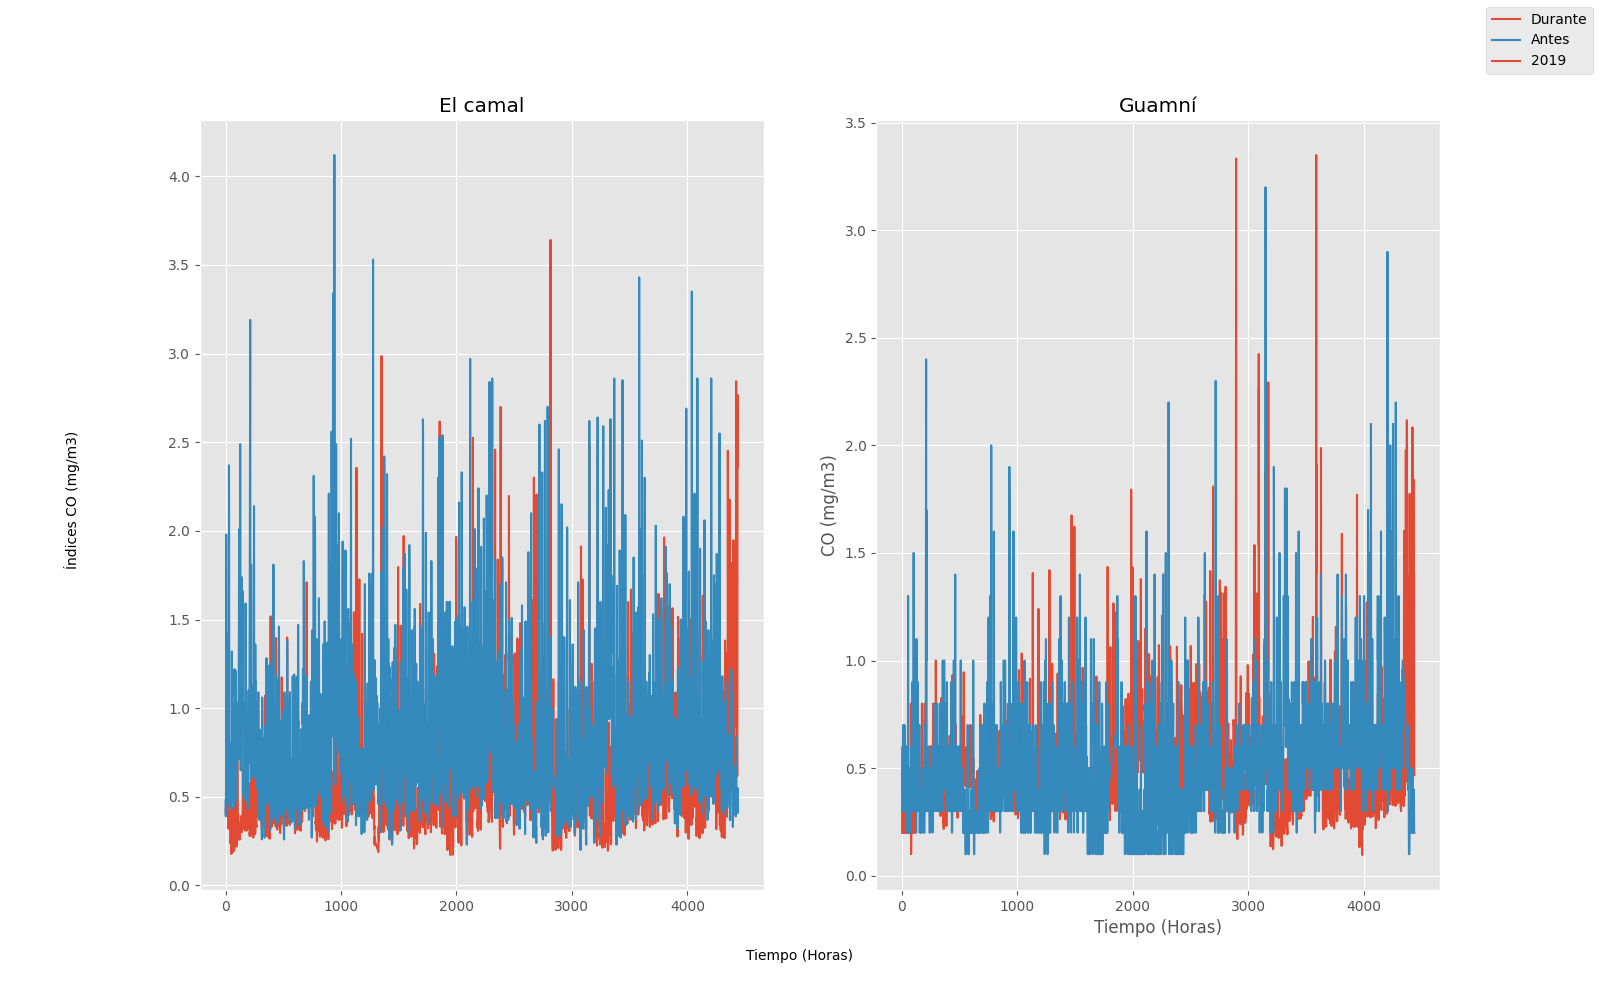
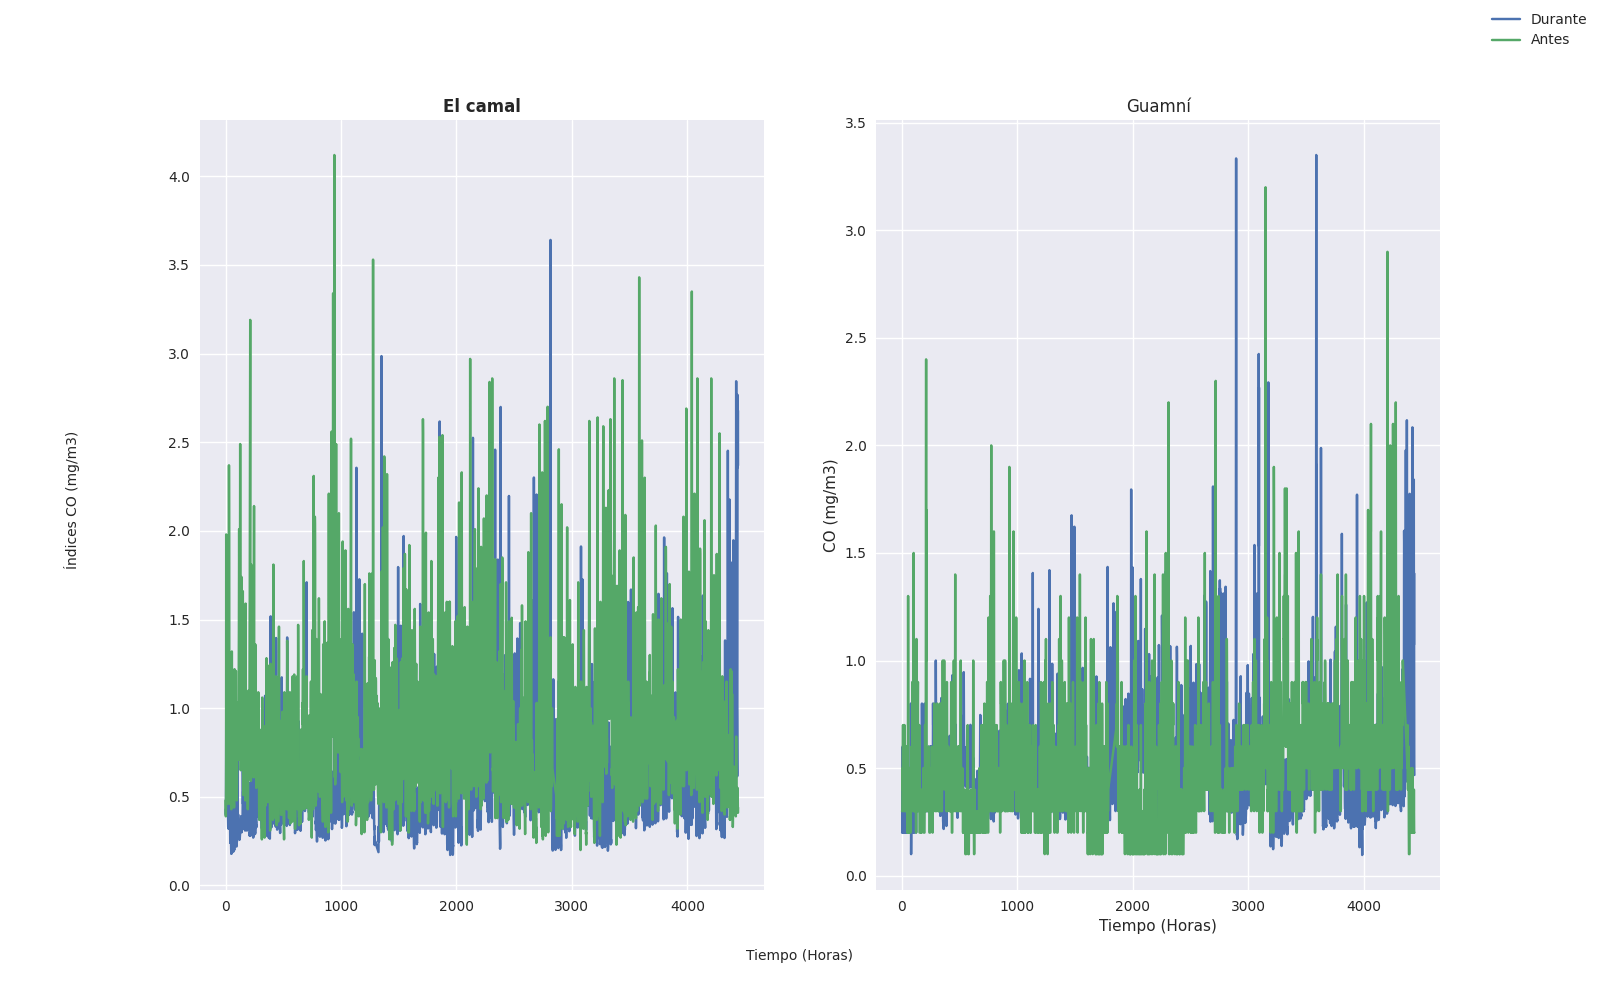
commit_18/5

diff --git a/CO/co_analisis.py b/CO/co_analisis.py
@@ -11,7 +11,8 @@ import scipy.stats as stats
 from sklearn.preprocessing import PowerTransformer
 import statistics
 
-plt.style.use('ggplot')
+plt.style.use('seaborn')
+
 
 belisario_co = []
 carapungo_co = []
@@ -22,6 +23,27 @@ guamani_co = []
 chillos_co = []
 tumbaco_co = []
 
+def medias_antes_durante(belisario_co, carapungo_co, centro_co, cotocollao_co, elcamal_co, guamani_co, chillos_co, tumbaco_co, belisario_co_a, carapungo_co_a, centro_co_a, cotocollao_co_a, elcamal_co_a, guamani_co_a, chillos_co_a, tumbaco_co_a):
+    bel_mean = statistics.mean(belisario_co)
+    car_mean = statistics.mean(carapungo_co)
+    cen_mean = statistics.mean(centro_co)
+    coto_mean = statistics.mean(cotocollao_co)
+    cama_mean = statistics.mean(elcamal_co)
+    gua_mean = statistics.mean(guamani_co)
+    chillos_mean = statistics.mean(chillos_co)
+    tum_mean = statistics.mean(tumbaco_co)
+    
+    bel_mean_a = statistics.mean(belisario_co_a)
+    car_mean_a = statistics.mean(carapungo_co_a)
+    cen_mean_a = statistics.mean(centro_co_a)
+    coto_mean_a = statistics.mean(cotocollao_co_a)
+    cama_mean_a = statistics.mean(elcamal_co_a)
+    gua_mean_a = statistics.mean(guamani_co_a)
+    chillos_mean_a = statistics.mean(chillos_co_a)
+    tum_mean_a = statistics.mean(tumbaco_co_a)
+    
+    return print(f"{bel_mean, car_mean, cen_mean, coto_mean, cama_mean, gua_mean, chillos_mean, tum_mean} Antes: {bel_mean_a, car_mean_a, cen_mean_a, coto_mean_a, cama_mean_a, gua_mean_a, chillos_mean_a, tum_mean_a}")
+    
 belisario_co_a = []
 carapungo_co_a = []
 centro_co_a = []
@@ -42,7 +64,7 @@ tumbaco_co_19 = []
 
 
 #Read File == Resultados 1 mes durante la pandemia 2020
-with open("/home/edward/DataScience_Projects/Air Pollution/Historical_data_analysis/CO/CO DATA-N.csv", "r") as csv_file:
+with open("/home/edward/DataScience_Projects/Air Pollution/CO/CO DATA-N.csv", "r") as csv_file:
     f = csv.reader(csv_file, delimiter=";")
     for line in islice(f, 142131, 146570):
         belisario_co.append(float(line[1]))
@@ -55,7 +77,7 @@ with open("/home/edward/DataScience_Projects/Air Pollution/Historical_data_analy
         tumbaco_co.append(float(line[8]))
 
 #Read File == Resultados 1 mes antes la pandemia 2020
-with open("/home/edward/DataScience_Projects/Air Pollution/Historical_data_analysis/CO/CO DATA-N.csv", "r") as csv_file_antes:
+with open("/home/edward/DataScience_Projects/Air Pollution/CO/CO DATA-N.csv", "r") as csv_file_antes:
     z = csv.reader(csv_file_antes, delimiter=";")
     for line in islice(z, 137691, 142130):
         belisario_co_a.append(float(line[1]))
@@ -68,7 +90,7 @@ with open("/home/edward/DataScience_Projects/Air Pollution/Historical_data_analy
         tumbaco_co_a.append(float(line[8]))
 
 #Read File == Resultados 1 mes 2019
-with open("/home/edward/DataScience_Projects/Air Pollution/Historical_data_analysis/CO/CO DATA-N.csv", "r") as csv_file_2019:
+with open("/home/edward/DataScience_Projects/Air Pollution/CO/CO DATA-N.csv", "r") as csv_file_2019:
     c = csv.reader(csv_file_2019, delimiter=";")
     for line in islice(c, 133347, 137786):
         belisario_co_19.append(float(line[1]))
@@ -202,13 +224,11 @@ ax4.set_title("Cotocollao")
 # for ax in fig.get_axes():
 #     ax.label_outer()
 
-
-
 fig.text(0.5, 0.04, 'Tiempo (Horas)', ha='center')
 fig.text(0.04, 0.5, 'Índices CO (mg/m3)', va='center', rotation='vertical')
 
-fig.legend(["Durante", "Antes", "2019"])
-plt.savefig("/home/edward/DataScience_Projects/Air Pollution/Historical_data_analysis/CO/Gráficos CO/1.png")
+fig.legend(["Durante", "Antes"])
+plt.savefig("/home/edward/DataScience_Projects/Air Pollution/CO/Gráficos CO/1.png")
 
 plt.show()
 
@@ -268,11 +288,15 @@ ax2.set_title("Guamní")
 # for ax in fig2.get_axes():
 #     ax.label_outer()
 
+# tweak the title
+ttl = ax1.title
+ttl.set_weight('bold')
+
 fig2.text(0.5, 0.04, 'Tiempo (Horas)', ha='center')
 fig2.text(0.04, 0.5, 'Índices CO (mg/m3)', va='center', rotation='vertical')
 
-fig2.legend(["Durante", "Antes", "2019"])
-plt.savefig("/home/edward/DataScience_Projects/Air Pollution/Historical_data_analysis/CO/Gráficos CO/2.png")
+fig2.legend(["Durante", "Antes"])
+plt.savefig("/home/edward/DataScience_Projects/Air Pollution/CO/Gráficos CO/2.png")
 plt.show()
 
 fig3, ((ax3, ax4)) = plt.subplots(1,2, sharex=True, figsize=(16,10))
@@ -330,9 +354,9 @@ ax4.set_title("Tumbaco")
 fig3.text(0.5, 0.04, 'Tiempo (Horas)', ha='center')
 fig3.text(0.04, 0.5, 'Índices CO (mg/m3)', va='center', rotation='vertical')
 
-fig3.legend(["Durante", "Antes", "2019"])
+fig3.legend(["Durante", "Antes"])
 
-plt.savefig("/home/edward/DataScience_Projects/Air Pollution/Historical_data_analysis/CO/Gráficos CO/3.png")
+plt.savefig("/home/edward/DataScience_Projects/Air Pollution/CO/Gráficos CO/3.png")
 plt.show()
 
 
@@ -383,4 +407,7 @@ print(Wilcoxon_result_test)
 box_fig = plt.figure(figsize =(10, 7))
 # Creating plot
 plt.boxplot(box_data)
-plt.savefig('/home/edward/DataScience_Projects/Air Pollution/Historical_data_analysis/CO/Gráficos CO/box_plot_belisario.png')
+plt.savefig('/home/edward/DataScience_Projects/Air Pollution/CO/Gráficos CO/box_plot_belisario.png')
+
+
+medias_antes_durante(belisario_co, carapungo_co, centro_co, cotocollao_co, elcamal_co, guamani_co, chillos_co, tumbaco_co, belisario_co_a, carapungo_co_a, centro_co_a, cotocollao_co_a, elcamal_co_a, guamani_co_a, chillos_co_a, tumbaco_co_a)

diff --git a/O3/o3_analisis.py b/O3/o3_analisis.py
@@ -31,6 +31,27 @@ guamani_o3_a = []
 chillos_o3_a = []
 tumbaco_o3_a = []
 
+def medias_antes_durante(belisario_co, carapungo_co, centro_co, cotocollao_co, elcamal_co, guamani_co, chillos_co, tumbaco_co, belisario_co_a, carapungo_co_a, centro_co_a, cotocollao_co_a, elcamal_co_a, guamani_co_a, chillos_co_a, tumbaco_co_a):
+    bel_mean = statistics.mean(belisario_co)
+    car_mean = statistics.mean(carapungo_co)
+    cen_mean = statistics.mean(centro_co)
+    coto_mean = statistics.mean(cotocollao_co)
+    cama_mean = statistics.mean(elcamal_co)
+    gua_mean = statistics.mean(guamani_co)
+    chillos_mean = statistics.mean(chillos_co)
+    tum_mean = statistics.mean(tumbaco_co)
+    
+    bel_mean_a = statistics.mean(belisario_co_a)
+    car_mean_a = statistics.mean(carapungo_co_a)
+    cen_mean_a = statistics.mean(centro_co_a)
+    coto_mean_a = statistics.mean(cotocollao_co_a)
+    cama_mean_a = statistics.mean(elcamal_co_a)
+    gua_mean_a = statistics.mean(guamani_co_a)
+    chillos_mean_a = statistics.mean(chillos_co_a)
+    tum_mean_a = statistics.mean(tumbaco_co_a)
+    
+    return print(f"{bel_mean, car_mean, cen_mean, coto_mean, cama_mean, gua_mean, chillos_mean, tum_mean} Antes: {bel_mean_a, car_mean_a, cen_mean_a, coto_mean_a, cama_mean_a, gua_mean_a, chillos_mean_a, tum_mean_a}")
+
 belisario_o3_19 = []
 carapungo_o3_19 = []
 centro_o3_19 = []
